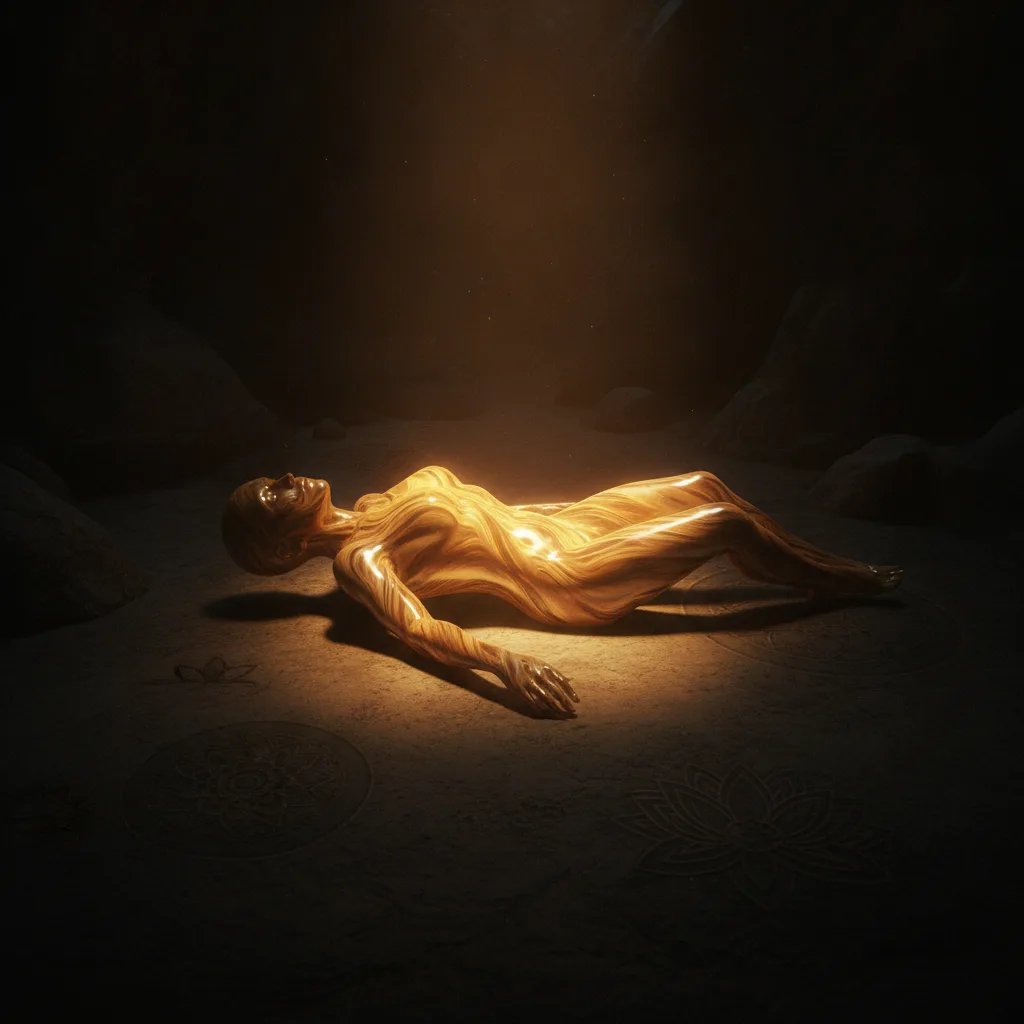
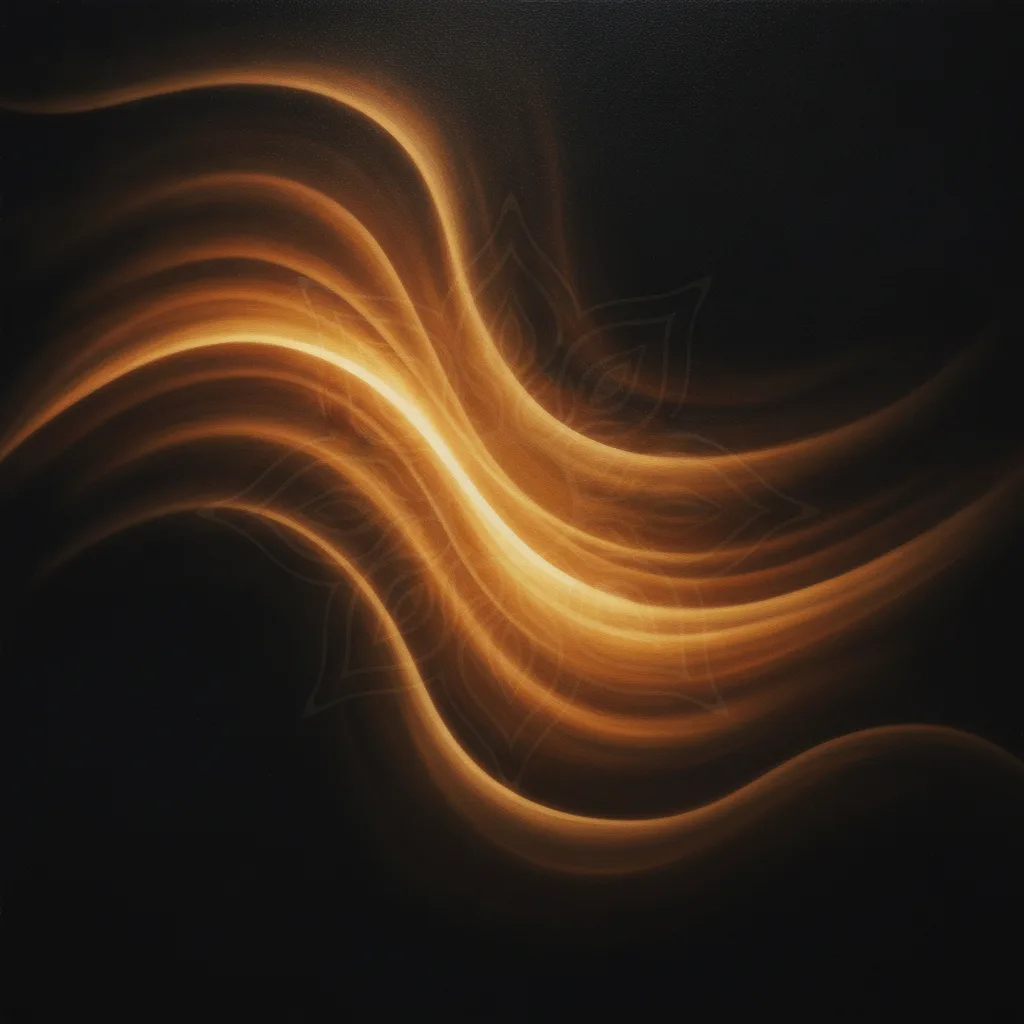
fix: body-scan cover vervangen door abstracte versie (geen lichaam)

diff --git a/scripts/regen-body-scan-cover.py b/scripts/regen-body-scan-cover.py
@@ -1,0 +1,40 @@
+#!/usr/bin/env python3
+"""Regenereer alleen de body-scan-deep cover met een abstracte prompt (geen lichaam)."""
+import json, base64, pathlib, urllib.request
+
+ENV = pathlib.Path("/opt/data/bodhi-dashboard/.env").read_text()
+def envkey(name):
+    for l in ENV.splitlines():
+        if l.startswith(f"{name}="):
+            return l.split("=", 1)[1].strip().strip('"').strip("'")
+    return ""
+KEY = envkey("GEMINI_API_KEY") or envkey("GOOGLE_API_KEY")
+
+MODEL = "gemini-2.5-flash-image"
+BASE = "https://generativelanguage.googleapis.com/v1beta"
+
+PROMPT = ("A serene abstract meditation scene, soft warm golden light flowing like gentle ripples "
+          "of water through deep darkness, healing warmth and deep relaxation, flowing organic "
+          "curves and soft gradients, amber and gold glow fading into charcoal, tranquil and "
+          "weightless, dark night palette, subtle mandala motif, cinematic lighting, ultra detailed, "
+          "1:1 square aspect ratio, no text, no watermark, no body, no people, no figures")
+
+body = json.dumps({
+    "contents": [{"parts": [{"text": PROMPT}]}],
+    "generationConfig": {"responseModalities": ["IMAGE", "TEXT"]},
+}).encode()
+
+r = urllib.request.Request(f"{BASE}/models/{MODEL}:generateContent?key={KEY}",
+                           data=body, headers={"Content-Type": "application/json"})
+with urllib.request.urlopen(r, timeout=120) as resp:
+    d = json.load(resp)
+
+dest = pathlib.Path("/opt/data/bodhi-dashboard/data/meditations/covers/body-scan-deep.png")
+for part in d["candidates"][0]["content"]["parts"]:
+    if "inlineData" in part:
+        raw = base64.b64decode(part["inlineData"]["data"])
+        dest.write_bytes(raw)
+        print(f"✅ {dest.name} ({len(raw)} bytes)")
+        break
+else:
+    print(f"!! geen image: {json.dumps(d)[:200]}")
